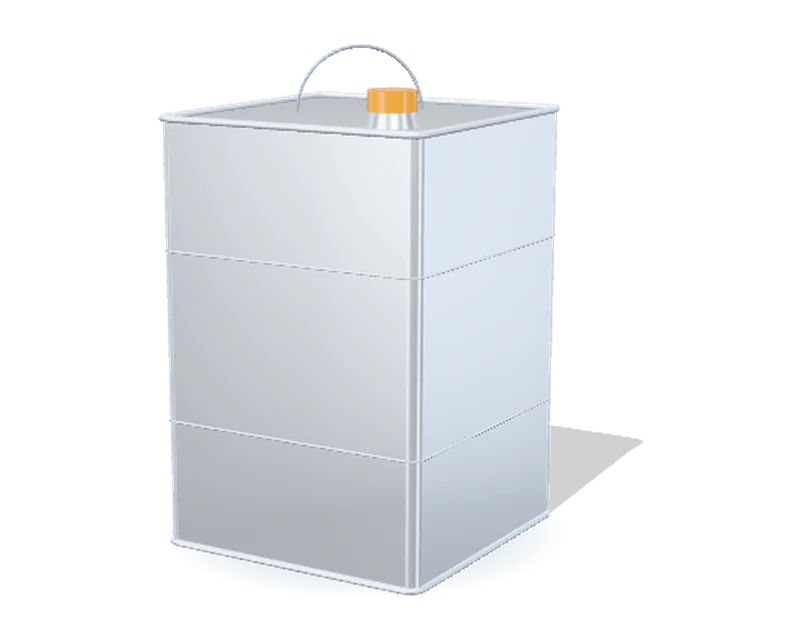
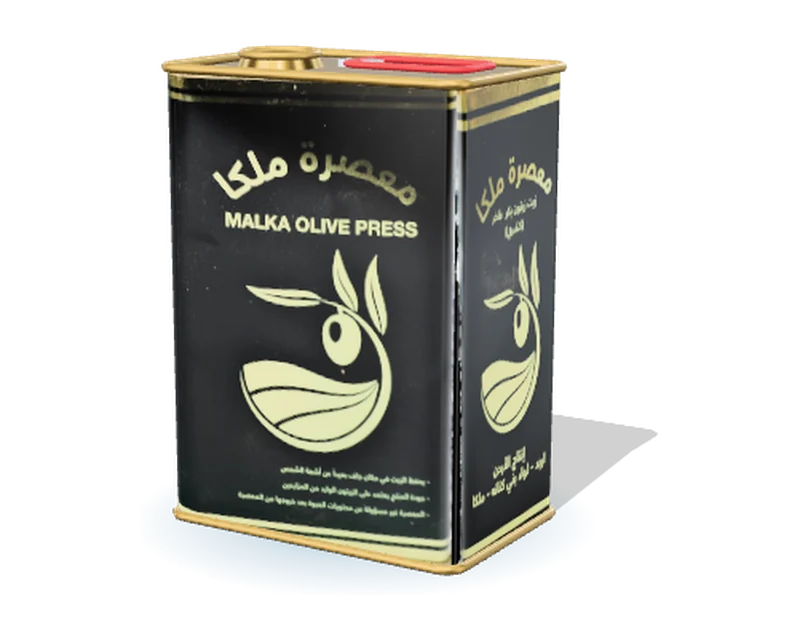
Website v2: the real olive-oil tin (Malka Olive Press, 4 L) from the new photos
The illustrative oil tin is replaced by a 3D model of Malka Olive Press's 4 L
tin at its real size, with its front and side straightened out of the owner's
latest photos, gold seams and top, the open spout and the red handle.

Claude-Session: https://claude.ai/code/session_01MEFuC6nnG29RtTkZKYjLJx

diff --git a/website-v2/assets/js/engine/tins.js b/website-v2/assets/js/engine/tins.js
@@ -26,8 +26,8 @@ export const TINS = {
   maeen: { kind: 'can', D: 73, H: 83, fmt: ['Milk powder can', 'علبة حليب بودرة'] },
   suliman: { kind: 'box', w: 70, d: 60, h: 88, fmt: ['Tall square tin', 'علبة مربعة طويلة'] },
   levelmax: { kind: 'box', w: 110, d: 67, h: 98, fmt: ['Tea caddy', 'علبة شاي'] },
-  // illustrative shapes for the inner pages (plain tinplate or sample artwork, no client design)
-  oil: { kind: 'oil', w: 235, d: 235, h: 350, fmt: ['Olive-oil tin, 16 kg', 'تنكة زيت زيتون 16 كغ'], illus: true },   // the old site's exact 16 kg tin
+  // for the inner pages: an olive-oil tin from its photos, and an illustrative paint can (sample artwork, no client design)
+  oil: { kind: 'oil', w: 175, d: 115, h: 245, front: 'malka', side: 'malkas', fmt: ['Olive-oil tin, 4 L', 'تنكة زيت زيتون 4 لتر'], dims: '175 × 115 × 245 mm' },   // Malka Olive Press
   paint: { kind: 'can', D: 110, H: 120, bail: true, fmt: ['Paint can', 'علبة دهان'], illus: true }
 };
 
@@ -163,27 +163,33 @@ function box(key, T) {
   const g = new THREE.Group(); g.add(body, L);
   return { group: g, lid: L, body, print: [front, side, ...L.userData.print], size: { h: H, w: W + 2 * G, d: D + 2 * G } };
 }
-// the olive-oil tin: plain tinplate, a square body with seamed rims, a raised top panel, a spout with a screw cap and a wire handle
+// the olive-oil tin: Malka Olive Press's 4 L tin (175 x 115 x 245 mm), from its photographs: a printed body (the front and back
+// carry the brand, the two narrow sides the Arabic panel), gold seams and top panel, an open spout, and the red plastic handle
+// folded flat on the top, as the factory ships it
 function oilTin(key, T) {
   const k = STU.rules({ w: T.w, d: T.d, h: T.h });
-  const W = T.w * U, D = T.d * U, H = T.h * U, CR = 9 * U, sr = k.seamR * U * 1.4;
-  const tin = new THREE.MeshPhysicalMaterial({ color: '#e6eaf0', metalness: 0.78, roughness: 0.2, clearcoat: 0.5, clearcoatRoughness: 0.1 }), dark = metal('#aab2bf', 0.3); // bright tinplate: part metal, part lacquer, so it never reads grey
-  const g = new THREE.Group();
+  const W = T.w * U, D = T.d * U, H = T.h * U, CR = 8 * U, sr = k.seamR * U * 1.5;
+  const gold = new THREE.MeshPhysicalMaterial({ color: '#c9a654', metalness: 1, roughness: 0.22, clearcoat: 0.5, clearcoatRoughness: 0.12 });
+  const sides = STU.boxSides(W / 2, D / 2, CR);
+  const face = (len, design) => printMat(HAL.surface('face', H / len, 1, design), 0.4);
+  const front = face(sides[0].total, T.front || 'malka'), side = face(sides[1].total, T.side || 'malkas');
+  const g = new THREE.Group(), body = new THREE.Group(); g.add(body);
+  sides.forEach((pts, i) => body.add(new THREE.Mesh(STU.wall(pts, 0, H, (p, t) => [p.s / pts.total, t]), i % 2 ? side : front)));
   const out = STU.roundRect(W / 2, D / 2, CR);
-  g.add(new THREE.Mesh(STU.wall(out, 0, H, () => [0.5, 0.5]), tin));
-  // two shallow ribs round the body, as on the real tins
-  [0.3, 0.7].forEach((f) => g.add(STU.ring(STU.grow(out, 0.001), sr * 0.35, H * f, tin)));
-  g.add(STU.ring(out, sr, H, tin), STU.ring(out, sr, sr * 0.6, tin));
-  const top = new THREE.Mesh(STU.cap(STU.roundRect(W / 2 - sr, D / 2 - sr, CR), H - sr * 0.6, true, () => [0.5, 0.5]), tin); g.add(top);
-  g.add(new THREE.Mesh(STU.cap(STU.roundRect(W / 2, D / 2, CR), 0.001, false, () => [0.5, 0.5]), dark));
-  // spout and cap near one corner
-  const sx = W * 0.27, sz = D * 0.27, y0 = H - sr * 0.6;
-  const neck = new THREE.Mesh(new THREE.CylinderGeometry(0.17, 0.2, 0.12, 40), tin); neck.position.set(sx, y0 + 0.06, sz); g.add(neck);
-  const capM = new THREE.MeshPhysicalMaterial({ color: '#d98b14', roughness: 0.35, clearcoat: 0.8 }); // the amber of the brand on the cap only
-  const cp = new THREE.Mesh(new THREE.CylinderGeometry(0.19, 0.19, 0.16, 40), capM); cp.position.set(sx, y0 + 0.2, sz); g.add(cp);
-  // wire handle across the top
-  const hdl = new THREE.Mesh(new THREE.TorusGeometry(W * 0.22, 0.012, 8, 48, Math.PI), dark); hdl.position.set(-W * 0.05, y0 + 0.02, -D * 0.05); hdl.rotation.y = Math.PI / 4; g.add(hdl);
-  return { group: g, lid: top, body: g.children[0], print: [], size: { h: H + 0.3, w: W, d: D } };
+  g.add(STU.ring(STU.grow(out, sr * 0.3), sr, H - sr * 0.2, gold), STU.ring(STU.grow(out, sr * 0.3), sr, sr * 0.8, gold));   // the top and bottom seams
+  const top = new THREE.Mesh(STU.cap(STU.roundRect(W / 2 - sr * 0.6, D / 2 - sr * 0.6, CR), H - sr * 0.9, true, () => [0.5, 0.5]), gold); g.add(top);
+  g.add(new THREE.Mesh(STU.cap(out, 0.001, false, () => [0.5, 0.5]), metal('#8d7444', 0.35)));
+  // the spout: a gold neck round a dark opening, towards one end of the top
+  const y0 = H - sr * 0.9, sx = -W * 0.28, sz = D * 0.04;
+  const neck = new THREE.Mesh(new THREE.CylinderGeometry(0.2, 0.23, 0.07, 48, 1, true), gold); neck.position.set(sx, y0 + 0.035, sz); g.add(neck);
+  const lip = STU.ring(STU.polygon(0.2, 48), 0.022, 0, gold); lip.position.set(sx, y0 + 0.07, sz); g.add(lip);
+  const hole = new THREE.Mesh(new THREE.CircleGeometry(0.19, 48), new THREE.MeshStandardMaterial({ color: '#0b0b0c', roughness: 0.9 })); hole.rotation.x = -Math.PI / 2; hole.position.set(sx, y0 + 0.03, sz); g.add(hole);
+  // the red handle, folded flat: a loop of red plastic held by a steel clip
+  const red = new THREE.MeshPhysicalMaterial({ color: '#d4222b', roughness: 0.35, clearcoat: 0.6, clearcoatRoughness: 0.2 });
+  const loop = STU.roundRect(W * 0.2, D * 0.16, D * 0.08), hx = W * 0.17, hz = -D * 0.05;
+  const handle = STU.ring(loop, 0.032, 0, red); handle.position.set(hx, y0 + 0.04, hz); handle.scale.set(1, 0.6, 1); g.add(handle);
+  const clip = new THREE.Mesh(new THREE.BoxGeometry(0.22, 0.04, 0.1), metal('#c9ced6', 0.25)); clip.position.set(hx - W * 0.2, y0 + 0.03, hz); g.add(clip);
+  return { group: g, lid: top, body, print: [front, side], size: { h: H + 0.1, w: W, d: D } };
 }
 export function make(key) {
   const T = TINS[key];

diff --git a/website-v2/ar/products/olive-oil/index.html b/website-v2/ar/products/olive-oil/index.html
@@ -43,7 +43,7 @@ if(q.get('mode')==='dark'||q.get('mode')==='light')m=q.get('mode');d.setAttribut
       <div class="hero__intro">
         <p class="kick">القطاع · زيت الزيتون</p>
         <p class="lead">لزيت الزيتون موسمه، وعلبك يجب أن تكون جاهزة قبل أن يبدأ. نصمّم علب الصفيح ونطبعها ونشكّلها ونجهّزها لعلامات الزيت في مكان واحد.</p>
-        <p class="fine">العلبة ثلاثية الأبعاد توضيحية: صفيح سادة أو تصميم نموذجي، وليست تصميم عميل.</p>
+        
       </div>
       <div class="phero__ctas"><a class="btn" href="https://jc-order.netlify.app/" target="_blank" rel="noopener"><span>اطلب عرض سعر</span><svg viewBox="0 0 24 24" aria-hidden="true"><path d="M5 12h14M13 6l6 6-6 6"/></svg><span class="vh"> (يُفتح في تبويب جديد)</span></a><a class="btn btn--ghost" href="../../../ar/products/index.html"><span>كل المنتجات</span><svg viewBox="0 0 24 24" aria-hidden="true"><path d="M5 12h14M13 6l6 6-6 6"/></svg></a></div>
     </div>

diff --git a/website-v2/assets/js/engine/halawah.js b/website-v2/assets/js/engine/halawah.js
@@ -33,6 +33,9 @@ export const DESIGNS = {
   maeen: { kind: 'can', reps: 3, skirt: '#c9ccd2', rim: SILVER, lid: 'abed' }, // milk powder can (closed end borrowed from abed)
   sufyan: { kind: 'can', reps: 3, skirt: '#2c2a52', rim: GOLD },           // low round sweets tin, navy with a carved door
   laqmi: { kind: 'can', reps: 3, skirt: '#1f6b3a', rim: SILVER },           // round can with a green slip lid (cheese & halawa can)
+  // Malka Olive Press's 4 L olive-oil tin: the front and the narrow side, straightened from the photos (2I9A5615, 2I9A5610)
+  malka: { kind: 'box', skirt: '#141513', rim: GOLD, grade: 'contrast(1.08) saturate(1.05)' },
+  malkas: { kind: 'box', skirt: '#141513', rim: GOLD, grade: 'contrast(1.08) saturate(1.05)' },
   // shapes with no photographed tin of their own wear a design that suits the shape:
   oval: { kind: 'can', reps: 3, skirt: '#9a5216', rim: GOLD, lid: ['jgz', 'top'], side: ['jgz', 'side'] }, // the desert landscape fits a wide oval lid
   paint: { kind: 'can', reps: 1, skirt: '#c4cad3', rim: SILVER },                                          // tinplate paint can, a label of paint swatches

diff --git a/website-v2/en/products/olive-oil/index.html b/website-v2/en/products/olive-oil/index.html
@@ -43,7 +43,7 @@ if(q.get('mode')==='dark'||q.get('mode')==='light')m=q.get('mode');d.setAttribut
       <div class="hero__intro">
         <p class="kick">Industry · Olive oil</p>
         <p class="lead">Olive oil has its season, and your tins should be ready before it starts. We design, print, form and pack tinplate for oil brands in one place.</p>
-        <p class="fine">The 3D tin is illustrative: plain tinplate or sample artwork, not a client design.</p>
+        
       </div>
       <div class="phero__ctas"><a class="btn" href="https://jc-order.netlify.app/" target="_blank" rel="noopener"><span>Request a quote</span><svg viewBox="0 0 24 24" aria-hidden="true"><path d="M5 12h14M13 6l6 6-6 6"/></svg><span class="vh"> (opens in a new tab)</span></a><a class="btn btn--ghost" href="../../../en/products/index.html"><span>All products</span><svg viewBox="0 0 24 24" aria-hidden="true"><path d="M5 12h14M13 6l6 6-6 6"/></svg></a></div>
     </div>

diff --git a/website-v2/README.md b/website-v2/README.md
@@ -95,6 +95,12 @@ globe. Decision 40 in `docs/decisions.md`.
   silver), as on the factory's tins; can seams are a dull silver. Bab Sharqi's skirt is cream lacquer with the thin gold line,
   as in its photo. Card renders re-made.
 
+## Round 10 (2026-10-29): the real olive-oil tin
+The owner sent the latest photo set (272 cut-out PNGs). The illustrative oil tin is replaced by Malka Olive Press's 4 L tin
+(175 x 115 x 245 mm): its front and narrow side were straightened out of photos 2I9A5615 and 2I9A5610 (perspective warp on the
+face corners) into `assets/img/tins/malka-side.jpg` and `malkas-side.jpg`; gold seams and top, the open spout and the red handle
+folded flat are modelled. The paint can is now the only illustrative tin. Many more tins in the set can be added the same way.
+
 ## Engine
 - `assets/js/engine/tins.js`: the tins. Geometry follows the order platform's studio rules (`studio.js`: lid gap and lift, skirt,
   curled lip, 3.5 mm corners) at each tin's real millimetres; artwork from `halawah.js` (the straightened photos). Materials are
